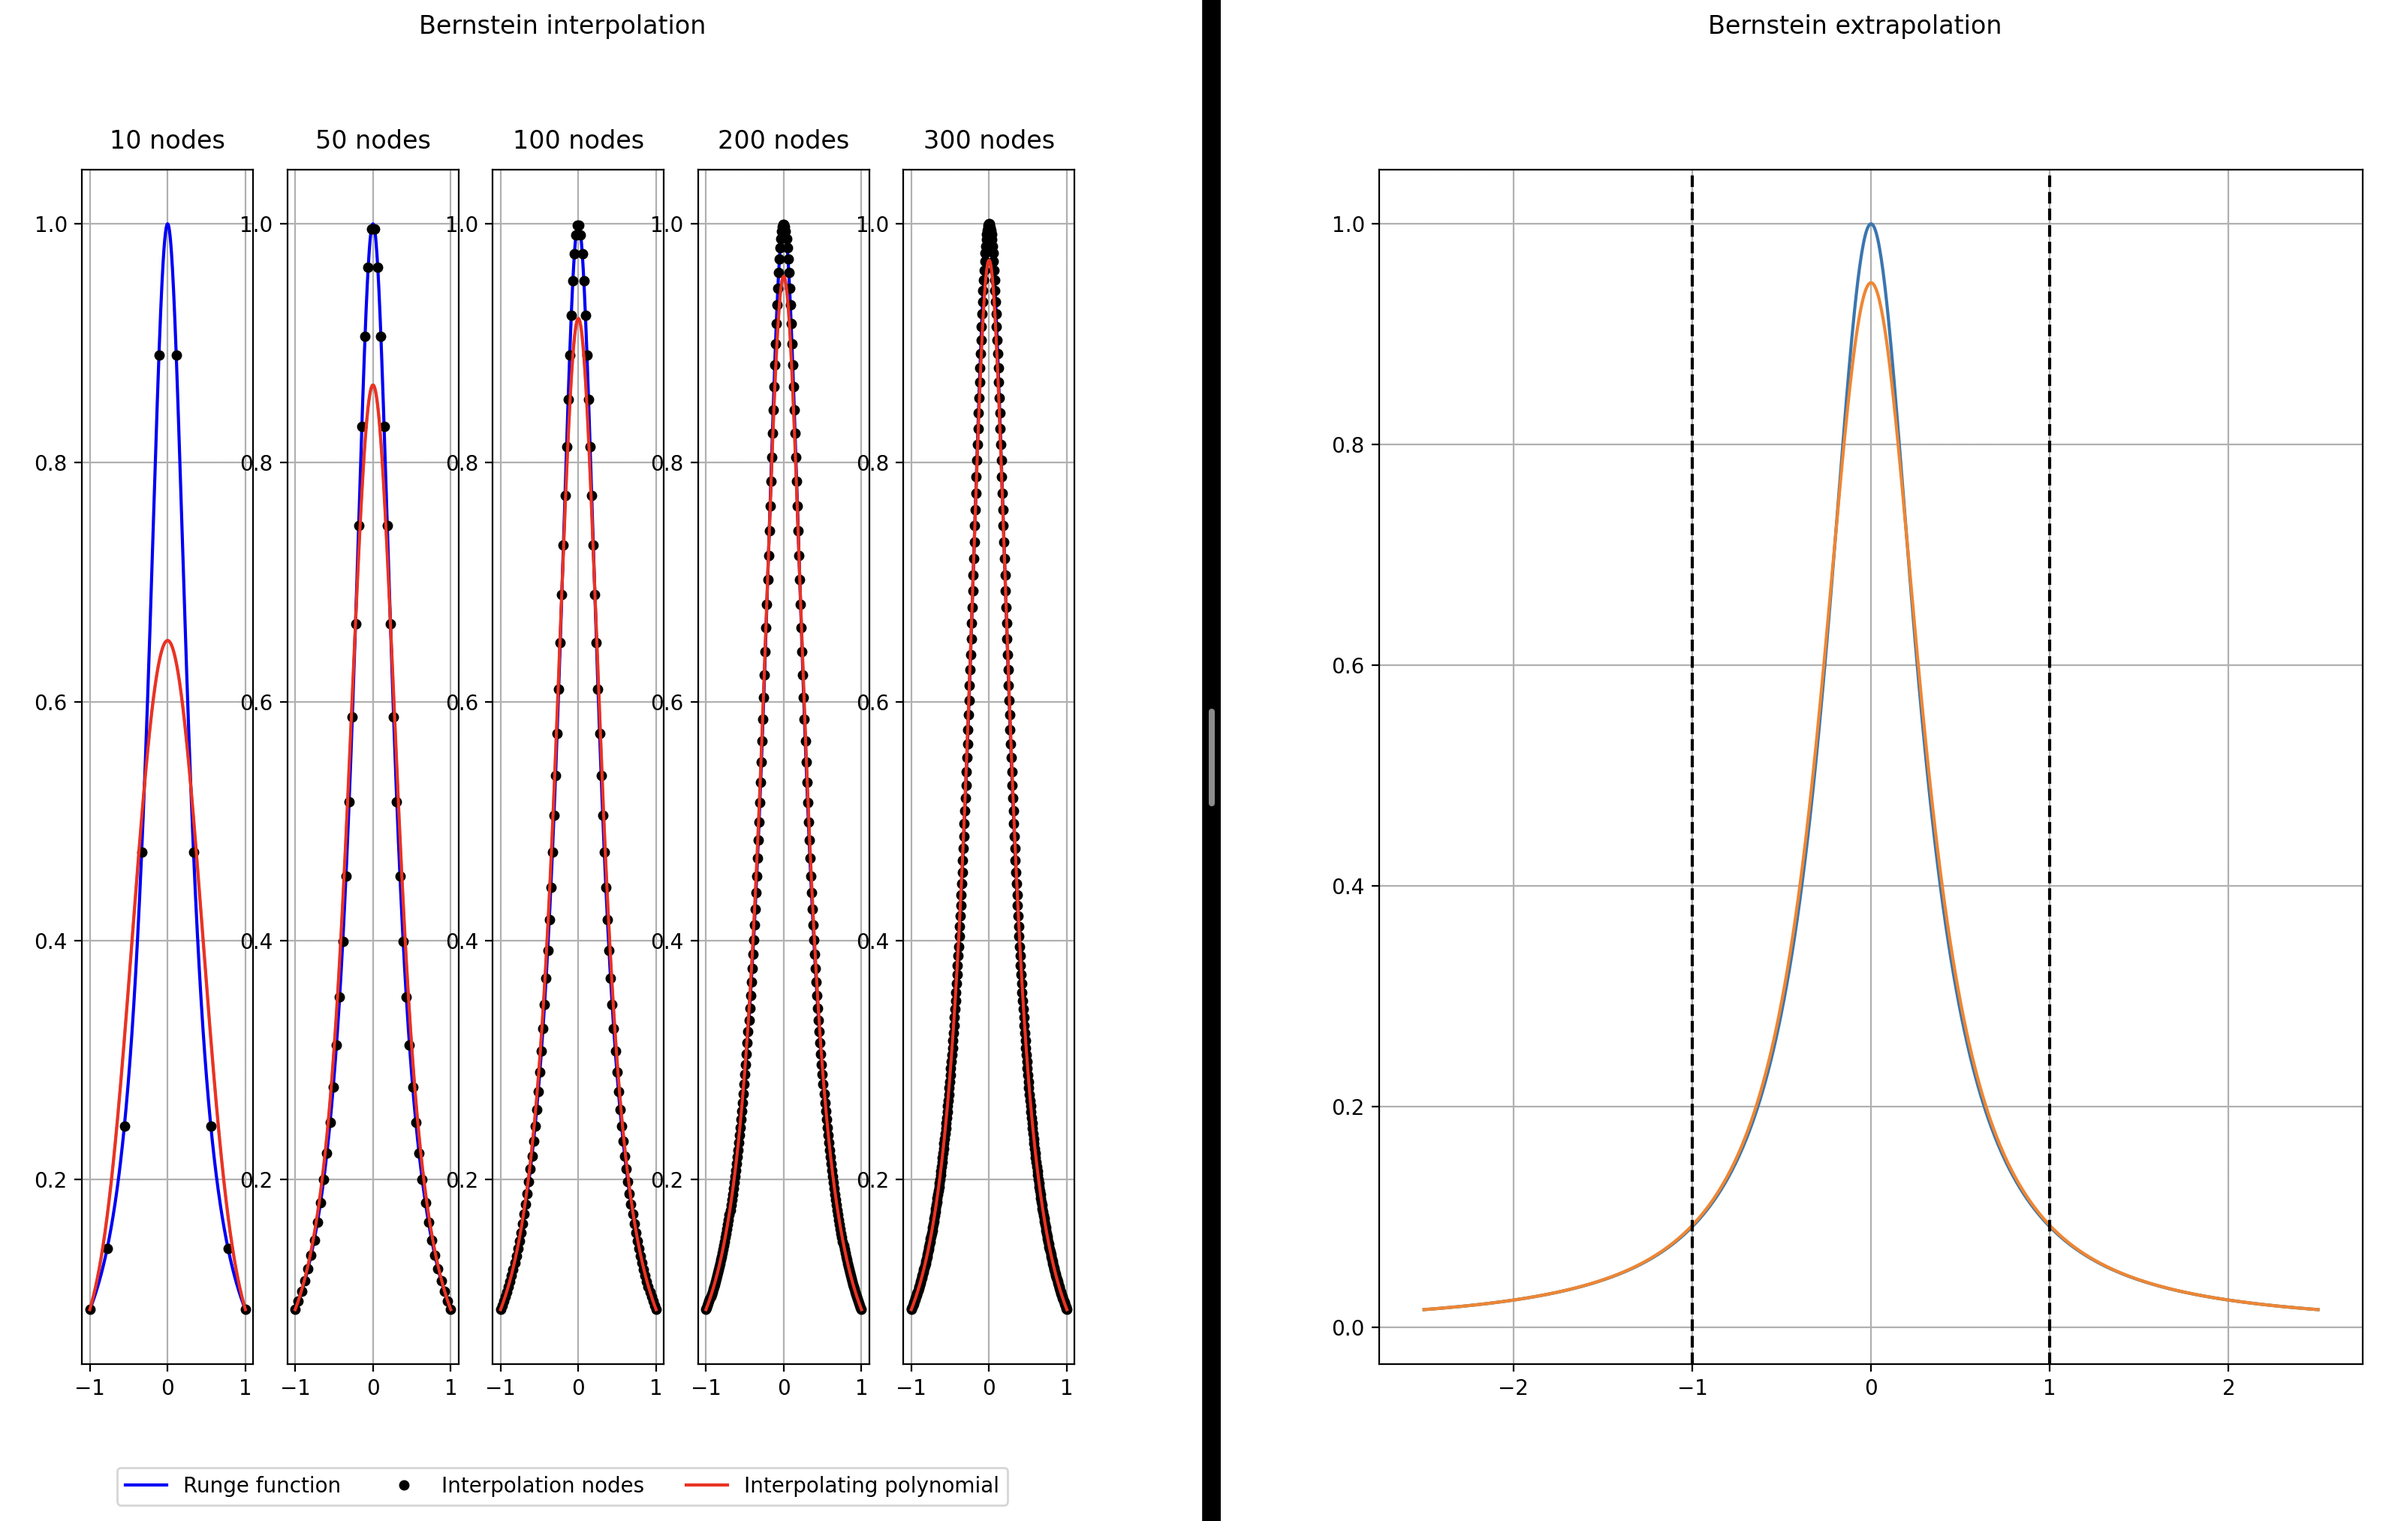
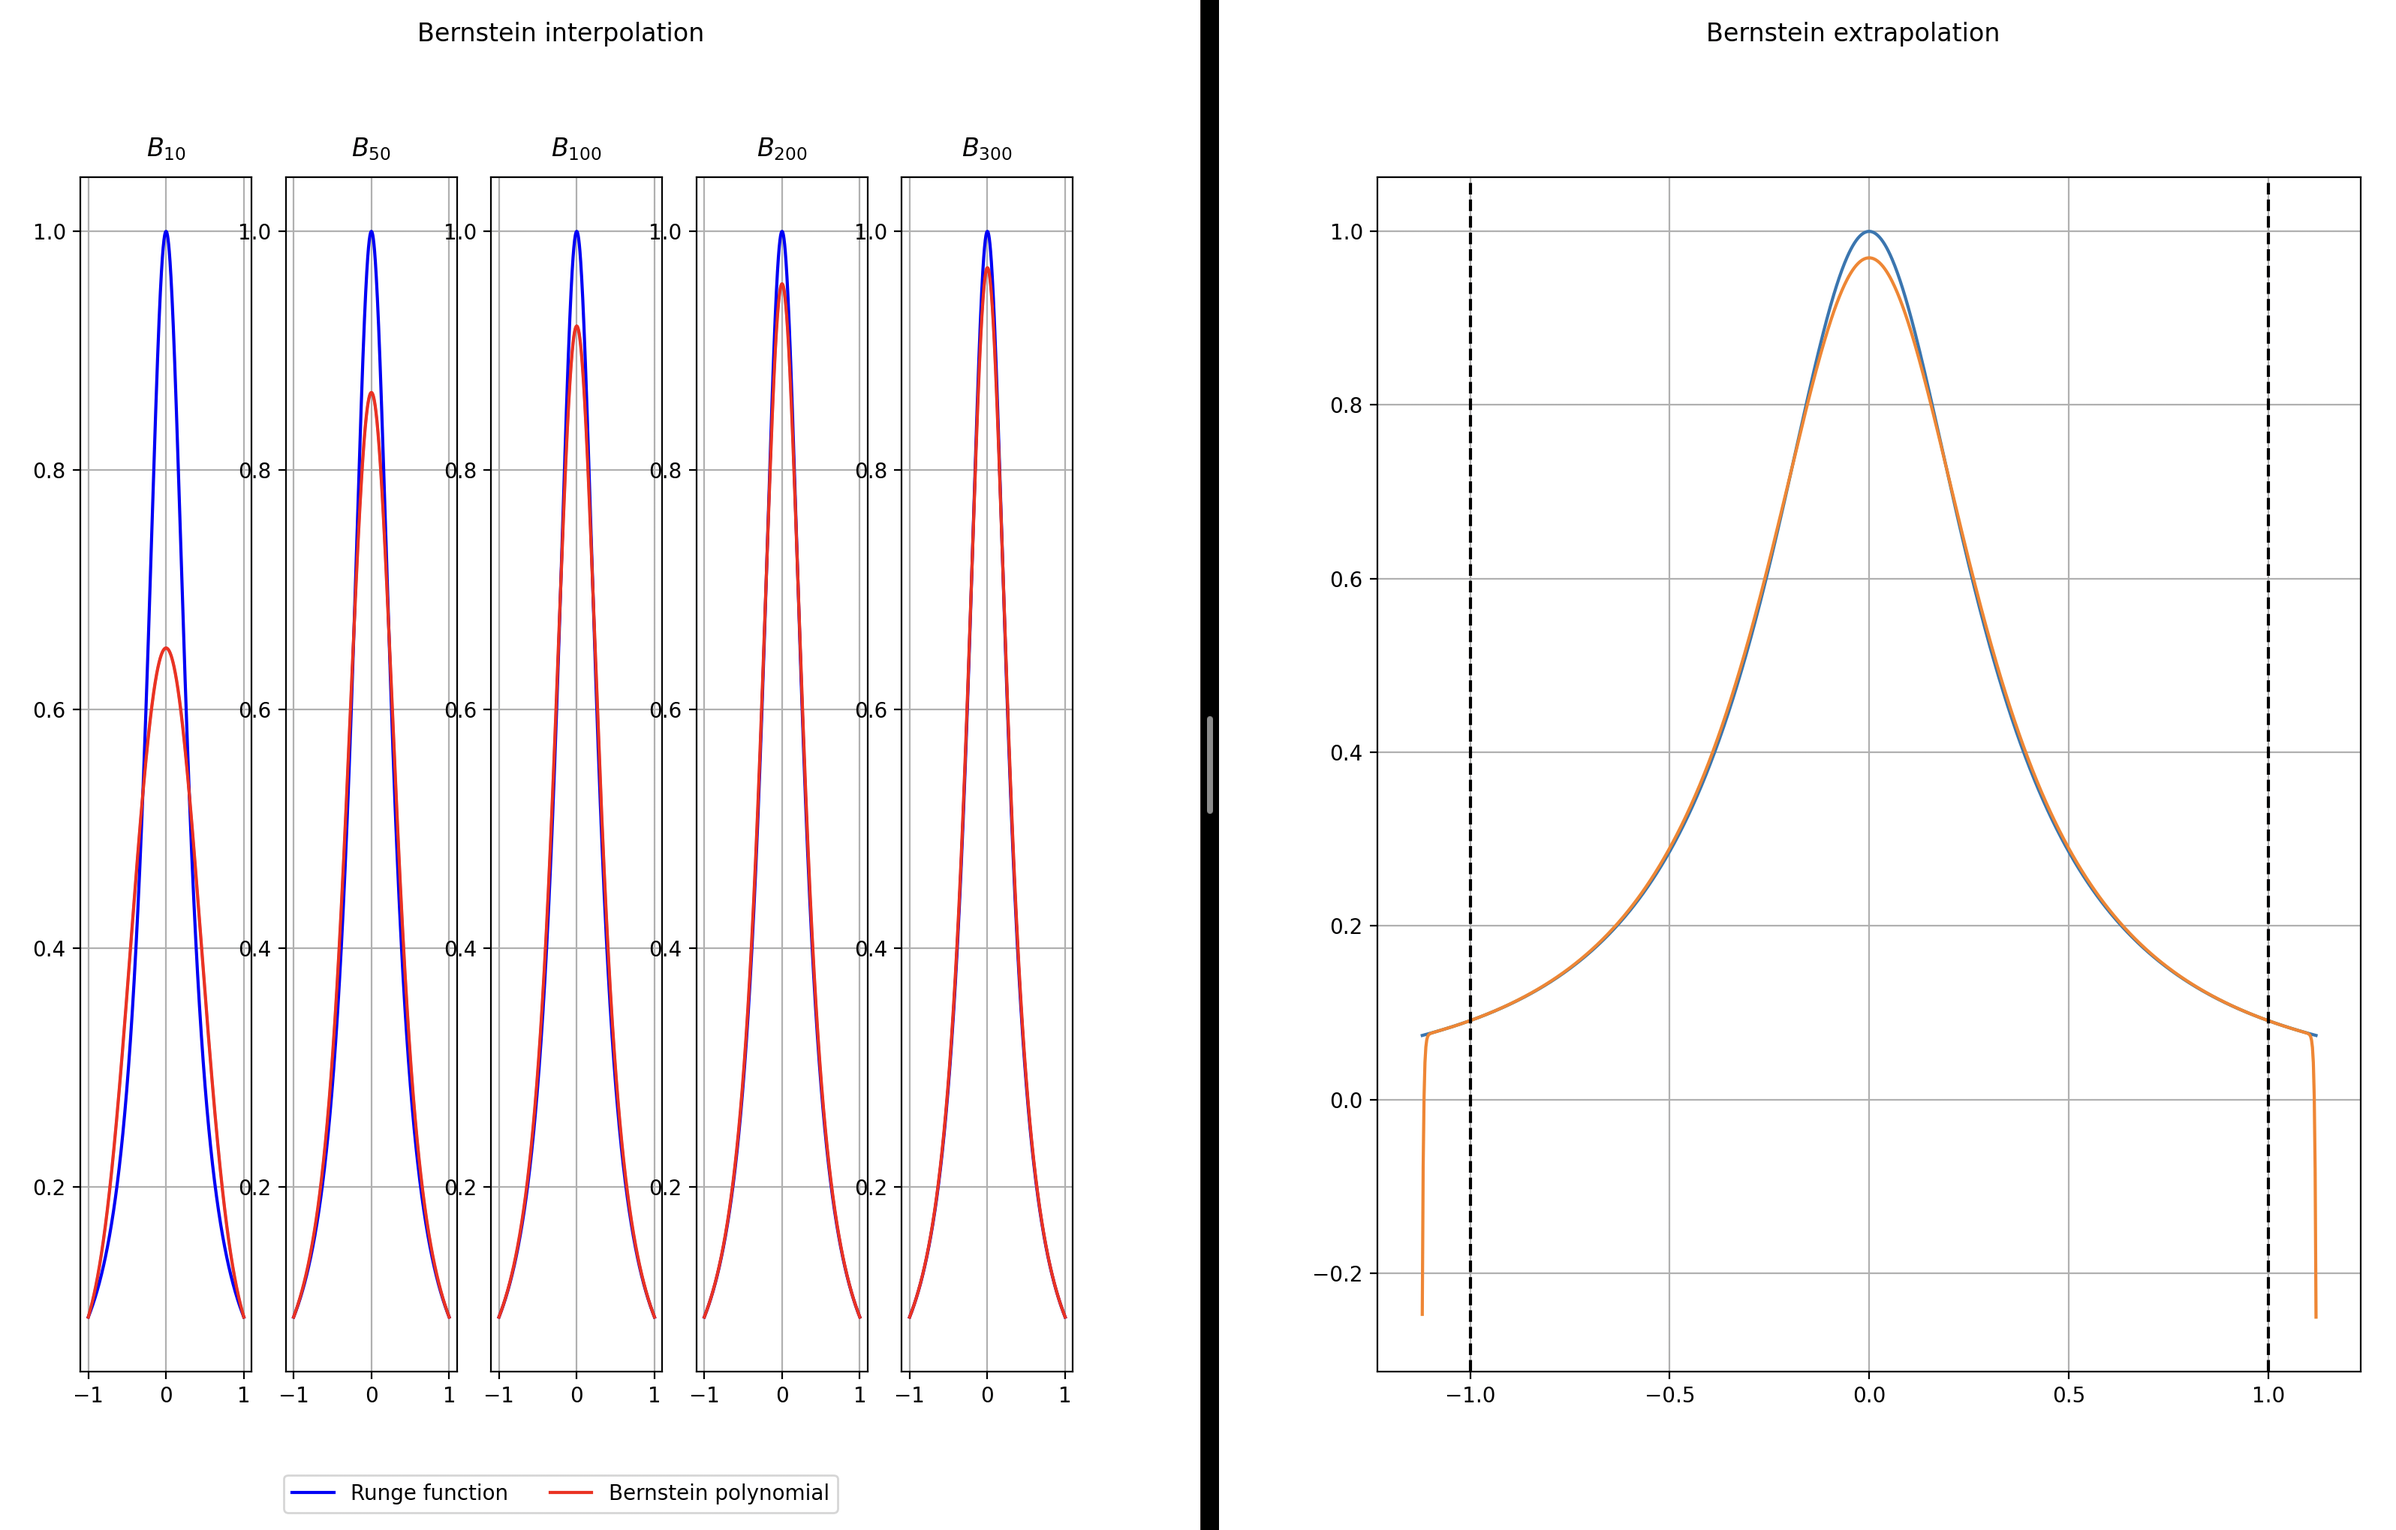
Correct Bernstein extrapolation

diff --git a/machine_learning.md b/machine_learning.md
@@ -143,10 +143,10 @@ There are dozens of techniques in approximation theory (and practice), and the L
 ![Approximation of the Runge function using Bernstein polynomials](/assets/snips/runges_phenomenon/bernstein_approx_runge.png)
 
 We can immediately observe the following:
-1. Although the Runge function is infinitely differentiable, convergence is somewhat slow. Even with $$300$$ nodes, the peak of the function is not fully captured by the approximation. The Chebyshev series, on the other hand, converges extremely fast.
-1. Convergence may be slow, but the interpolant is well behaved as the number of nodes increases: no wild oscillations.
+1. Although the Runge function is infinitely differentiable, convergence is slow. Even with degree $$n=300$$, the peak of the function is not fully captured by the approximation. The Chebyshev series, on the other hand, converges extremely fast.
+1. Convergence may be slow, but the interpolant is well behaved as $$n$$ increases: no wild oscillations.
 1. The previous two observations are a manifestation in practice of the fact that the Bernstein polynomials $$B_n(f)$$ converge **uniformly** as $$n\rightarrow\infty$$ (asymptotic result).
-1. In this example, where $$f$$ is the Runge function, **extrapolation** works extremely well, even way beyond the interval $$[-1,1]$$.
+1. Extrapolation falls off a cliff. It kind of works up to $$[-1.1,1.1]$$.
 
 <hr>
 **Exercise:** Try $$2,000$$ Chebyshev nodes, add some noise, and use shuffling in the cross validation.
